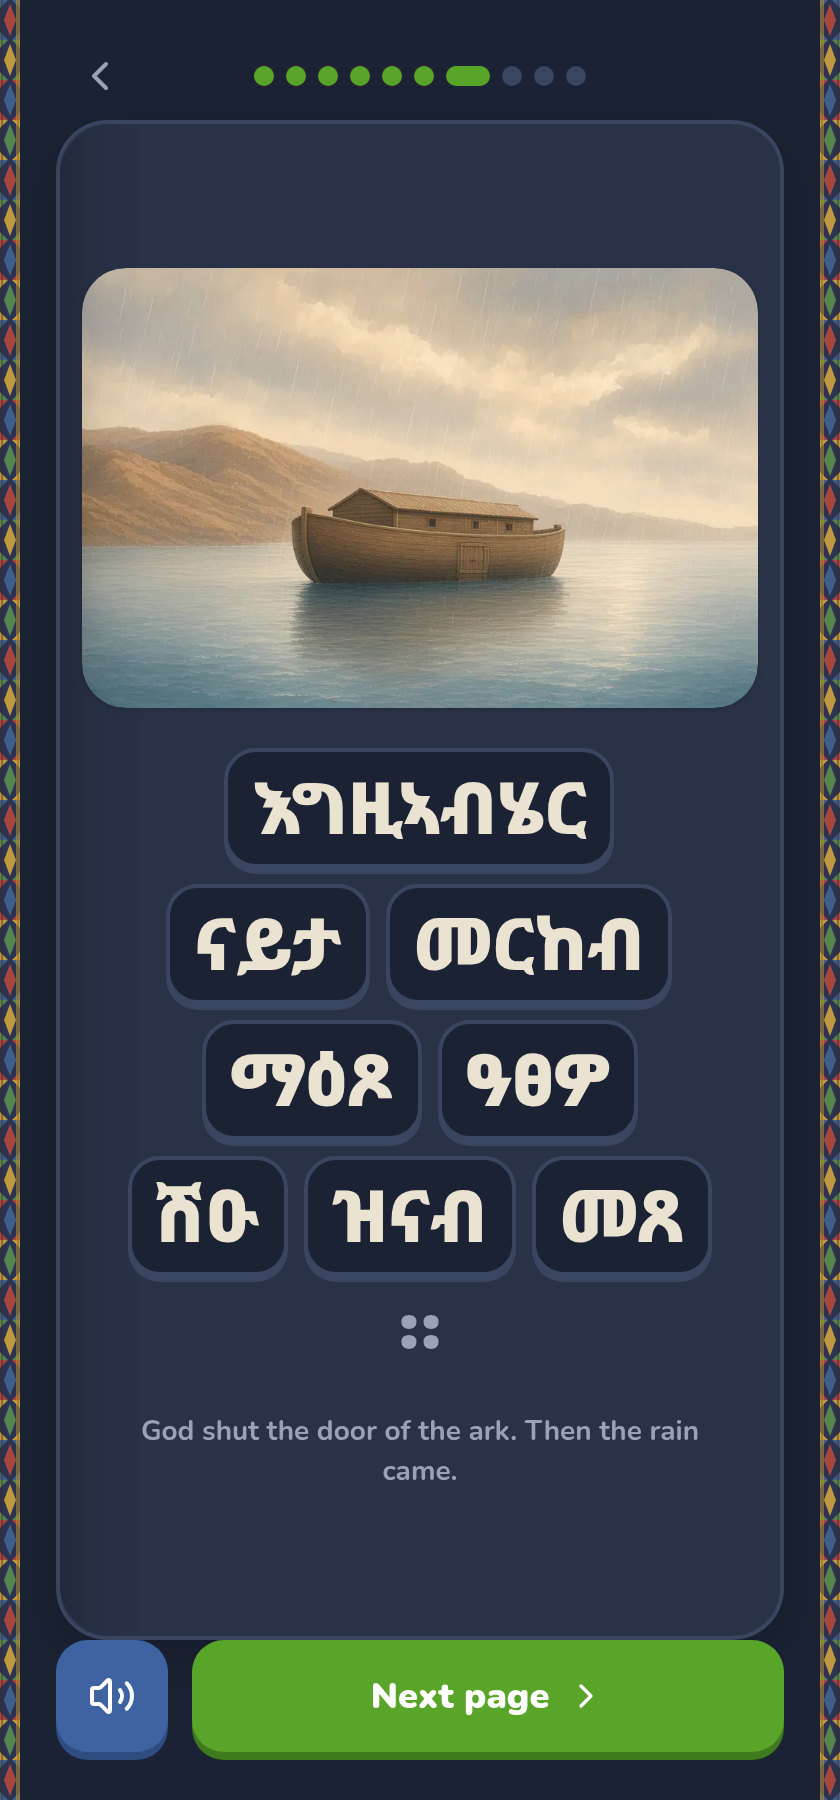
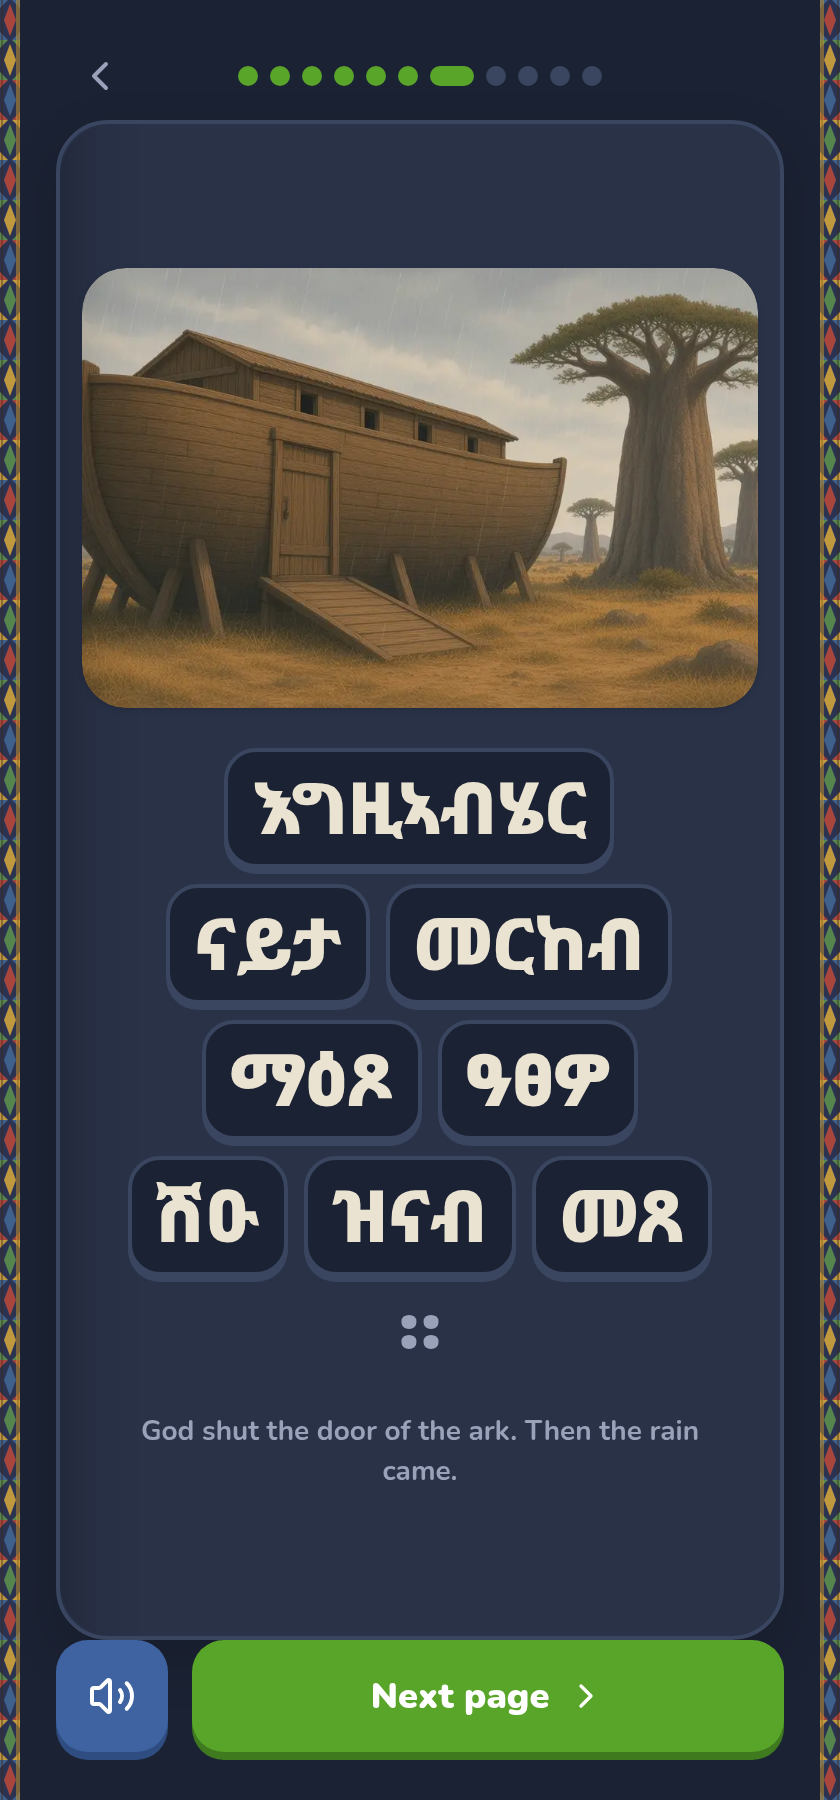
Split Noah's last page and show rain on the shut door.
The dry-land line and the rainbow promise are separate pages so the English gloss stays on the card, and the door page shows a closed door with soft rain.

Changed region(s): [[0.0929, 0.1244, 0.9286, 0.4044], [0.2786, 0.0311, 0.5262, 0.0622], [0.5571, 0.0311, 0.7119, 0.0622]]

diff --git a/src/data/bibleStories.js b/src/data/bibleStories.js
@@ -8,7 +8,7 @@
    Each line names the weekday. Sunday starts the work, Friday is the
    people, Saturday is the rest. Land and plants share Tuesday.
 
-   Book 2, መርከብ ኖህ: a kid paraphrase of Noah (Genesis 6-9). Ten
+   Book 2, መርከብ ኖህ: a kid paraphrase of Noah (Genesis 6-9). Eleven
    connected lines. People do ክፋእ. Noah is ፃድቕ and obeys. God is not
    drawn. "They built" is ሰርሑ, so the line does not use ሔ.
 
@@ -73,7 +73,7 @@ const ART = {
     ],
   },
   'bible-noah': {
-    pics: ['🚶', '🙏', '🪵', '👨👩👧', '🚪', '🦁', '🌧', '🌊', '🕊', '🌈'],
+    pics: ['🚶', '🙏', '🪵', '👨👩👧', '🚪', '🦁', '🌧', '🌊', '🕊', '👨👩👧', '🌈'],
     scenes: [
       painted('bible-noah', 1, { bg: 'field', items: [{ ...KIN, x: 0.3, foot: 0.76, s: 0.32 }, { ...KIN, x: 0.55, foot: 0.76, s: 0.3, cloth: '#c4b496' }] }),
       painted('bible-noah', 2, { bg: 'field', items: [{ ...NOAH, x: 0.48, foot: 0.74, s: 0.36 }] }),
@@ -84,7 +84,8 @@ const ART = {
       painted('bible-noah', 7, { bg: 'sea', items: [{ k: 'ark', x: 0.5, y: 0.48, s: 0.44 }] }),
       painted('bible-noah', 8, { bg: 'sea', items: [{ k: 'ark', x: 0.55, y: 0.46, s: 0.36 }] }),
       painted('bible-noah', 9, { bg: 'day', items: [{ ...NOAH, x: 0.62, foot: 0.78, s: 0.28 }, { k: 'bird', x: 0.38, y: 0.34, s: 0.18 }] }),
-      painted('bible-noah', 10, { bg: 'day', items: [{ k: 'rainbow', x: 0.5, y: 0.48, s: 0.7 }, { ...NOAH, x: 0.28, foot: 0.8, s: 0.24 }, { ...WIFE, x: 0.44, foot: 0.8, s: 0.22 }, { k: 'ark', x: 0.78, y: 0.62, s: 0.24 }] }),
+      painted('bible-noah', 10, { bg: 'field', items: [{ k: 'ark', x: 0.78, y: 0.55, s: 0.28 }, { ...NOAH, x: 0.28, foot: 0.8, s: 0.26 }, { ...WIFE, x: 0.44, foot: 0.8, s: 0.24 }, { ...CHILD, x: 0.58, foot: 0.82, s: 0.16 }] }),
+      painted('bible-noah', 11, { bg: 'day', items: [{ k: 'rainbow', x: 0.5, y: 0.42, s: 0.72 }, { ...NOAH, x: 0.28, foot: 0.8, s: 0.24 }, { ...WIFE, x: 0.44, foot: 0.8, s: 0.22 }, { k: 'ark', x: 0.78, y: 0.62, s: 0.24 }] }),
     ],
   },
 }

diff --git a/src/data/bibleStories.test.js b/src/data/bibleStories.test.js
@@ -142,7 +142,8 @@ describe('noah bible book', () => {
       'እግዚኣብሄር ናይታ መርከብ ማዕጾ ዓፀዎ። ሽዑ ዝናብ መጸ።',
       'ማይ ነታ ምድሪ ሸፈነ። እታ መርከብ ግና ኣብ ልዕሊኡ ሰላም ነበረት።',
       'ዝናብ ምስ ደው በለ፡ ኖህ ንርግቢ ሰደዳ። ቘፅሊ ኣውሊዕ ሒዛ ተመለሰት።',
-      'ኖህን ስድራቤቱን ናብ ነቒጣ ምድሪ ወፁ። እግዚኣብሄር ቀስቲ ኣብ ሰማይ ኣንበረ። እዚ ኪዳን እዩ።',
+      'ኖህን ስድራቤቱን ናብ ነቒጣ ምድሪ ወፁ።',
+      'እግዚኣብሄር ቀስቲ ኣብ ሰማይ ኣንበረ። እዚ ኪዳን እዩ።',
     ])
     expect(book.pages.map((p) => p.meaningEn)).toEqual([
       'God saw that people were doing evil on the earth.',
@@ -154,7 +155,8 @@ describe('noah bible book', () => {
       'God shut the door of the ark. Then the rain came.',
       'Water covered the land. But the ark was safe on the water.',
       'When the rain stopped, Noah sent the dove. She came back holding an olive leaf.',
-      'Noah and his family went out onto dry land. God set a rainbow in the sky. This is his promise.',
+      'Noah and his family went out onto dry land.',
+      'God set a rainbow in the sky. This is his promise.',
     ])
     expect(blob.includes('አ')).toBe(false)
     expect(blob.includes('ሔ')).toBe(false)
@@ -165,8 +167,7 @@ describe('noah bible book', () => {
     expect(blob.includes('ክፋእ')).toBe(true)
     expect(blob.includes('ፃድቕ')).toBe(true)
     expect(blob.includes('ኪዳን')).toBe(true)
-    expect(book.pages.length).toBeGreaterThanOrEqual(8)
-    expect(book.pages.length).toBeLessThanOrEqual(10)
+    expect(book.pages.length).toBe(11)
     for (const page of book.pages) {
       expect(storyWords(page.geez).length, page.geez).toBeGreaterThan(0)
       expect(storyWords(page.geez).length, page.geez).toBeLessThanOrEqual(16)
